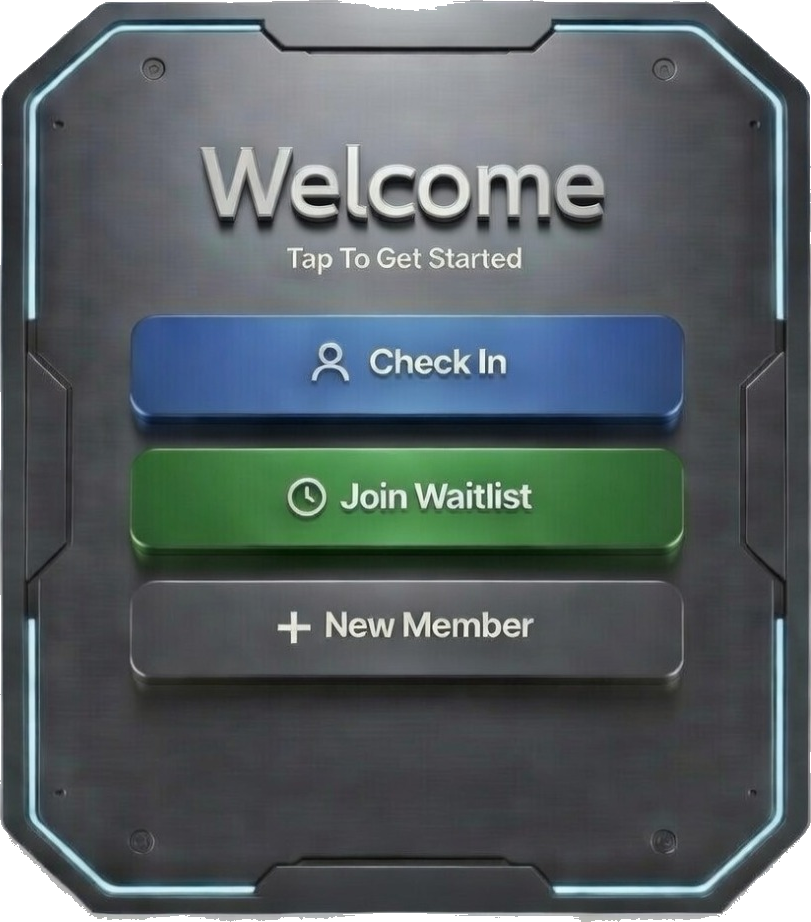
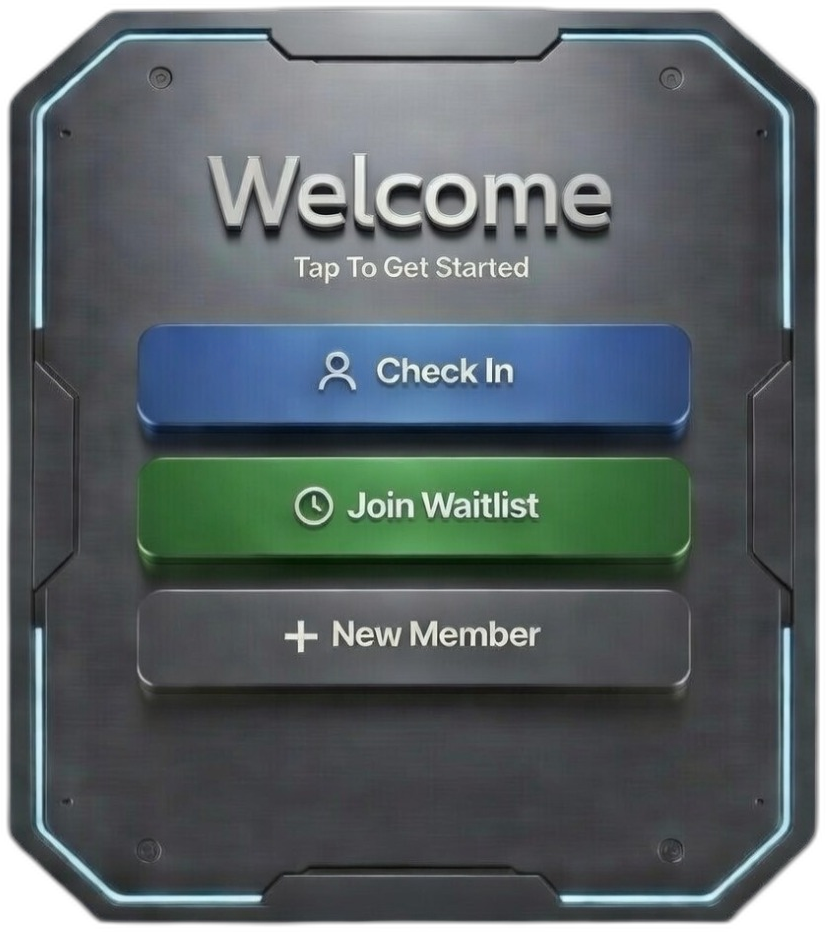
fix: v32 kiosk — rembg ML background removal, zero interior modifications, clean edges

diff --git a/pages/commander/kiosk.js b/pages/commander/kiosk.js
@@ -441,7 +441,7 @@ export default function MembershipKiosk() {
             <div style={{ position: 'relative', maxWidth: '90%', maxHeight: '90%', display: 'flex' }}>
               {/* Background Image — PNG with transparent background */}
               <img
-                src="/images/commander/kiosk-welcome.png?v=31"
+                src="/images/commander/kiosk-welcome.png?v=32"
                 alt="Welcome Kiosk"
                 style={{
                   width: '100%',
